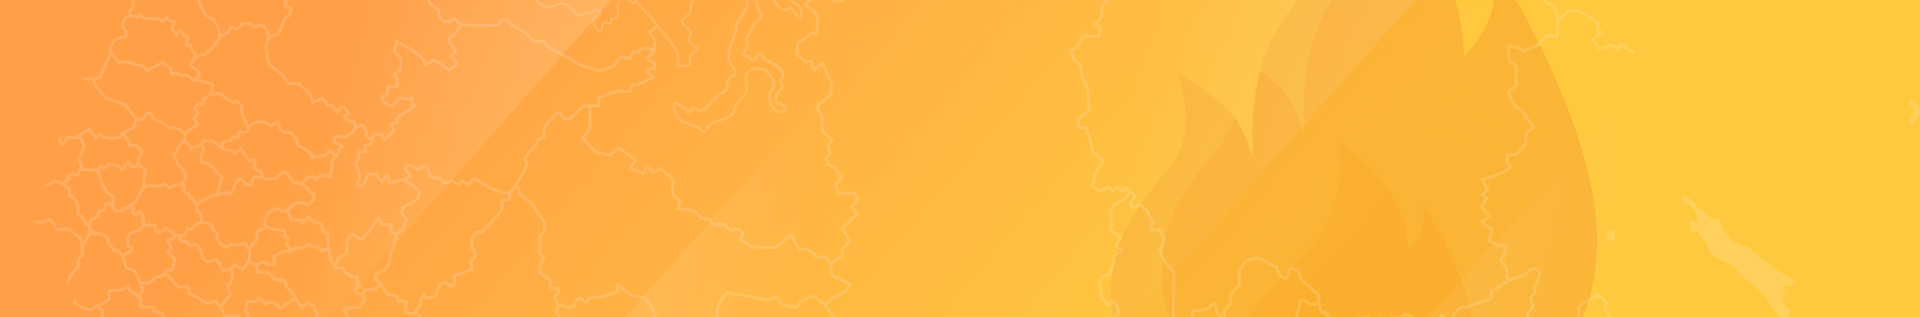
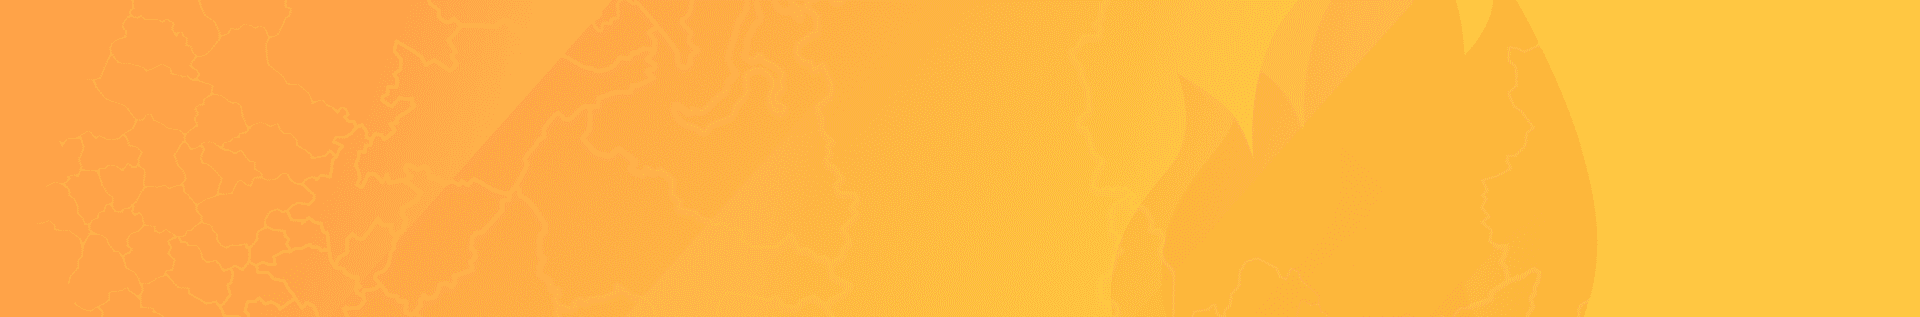
compressed images, responsive offers

diff --git a/src/partials/ways.html b/src/partials/ways.html
@@ -4,9 +4,18 @@
   <div class="ways-cards">
     <div class="ways-card">
       <a class="ways-card__link" href="#!">
-        <img class="money-img" src="/assets/img/ways/image 1.png" width="100" height="55" alt="img" />
-        <!-- <img class="arrow-img" src="/assets/img/ways/arrow.png" width="17" height="10" alt="arrow" /> -->
-        <svg class="arrow-img" width="18" height="10" viewBox="0 0 18 10" fill="none" xmlns="http://www.w3.org/2000/svg">
+        <picture class="">
+          <source type="image/png" srcset="/assets/img/ways/wallets-compressed/ym.png" alt="yoomoney" />
+          <img src="/assets/img/ways/wallets-compressed/ym.png" width="100" height="55" alt="yoomoney" />
+        </picture>
+        <svg
+          class="arrow-img"
+          width="18"
+          height="10"
+          viewBox="0 0 18 10"
+          fill="none"
+          xmlns="http://www.w3.org/2000/svg"
+        >
           <path
             d="M0.81483 5.82806L14.4847 5.82806L11.9237 8.56275C11.1881 9.34825 12.2915 10.5264 13.0271 9.74095L16.9165 5.58136C17.2183 5.25722 17.2183 4.73372 16.9165 4.40958L13.0271 0.251617C12.8792 0.0892485 12.6755 -0.00185569 12.4633 2.86615e-05C11.7627 0.000122879 11.419 0.911213 11.9237 1.42991L14.4908 4.16461L0.774553 4.16461C-0.304313 4.22176 -0.223759 5.88541 0.81483 5.82806Z"
             fill="currentColor"
@@ -16,9 +25,18 @@
     </div>
     <div class="ways-card">
       <a class="ways-card__link" href="#!">
-        <img class="money-img" src="/assets/img/ways/image 2.png" width="100" height="55" alt="img" />
-        <!-- <img class="arrow-img" src="/assets/img/ways/arrow.png" width="17" height="10" alt="arrow" /> -->
-        <svg class="arrow-img" width="18" height="10" viewBox="0 0 18 10" fill="none" xmlns="http://www.w3.org/2000/svg">
+        <picture class="">
+          <source type="image/png" srcset="/assets/img/ways/wallets-compressed/qiwi.png" alt="qiwi" />
+          <img src="/assets/img/ways/wallets-compressed/qiwi.png" width="100" height="55" alt="qiwi" />
+        </picture>
+        <svg
+          class="arrow-img"
+          width="18"
+          height="10"
+          viewBox="0 0 18 10"
+          fill="none"
+          xmlns="http://www.w3.org/2000/svg"
+        >
           <path
             d="M0.81483 5.82806L14.4847 5.82806L11.9237 8.56275C11.1881 9.34825 12.2915 10.5264 13.0271 9.74095L16.9165 5.58136C17.2183 5.25722 17.2183 4.73372 16.9165 4.40958L13.0271 0.251617C12.8792 0.0892485 12.6755 -0.00185569 12.4633 2.86615e-05C11.7627 0.000122879 11.419 0.911213 11.9237 1.42991L14.4908 4.16461L0.774553 4.16461C-0.304313 4.22176 -0.223759 5.88541 0.81483 5.82806Z"
             fill="currentColor"
@@ -28,9 +46,18 @@
     </div>
     <div class="ways-card">
       <a class="ways-card__link" href="#!">
-        <img class="money-img" src="/assets/img/ways/image 3.png" width="100" height="55" alt="img" />
-        <!-- <img class="arrow-img" src="/assets/img/ways/arrow.png" width="17" height="10" alt="arrow" /> -->
-        <svg class="arrow-img" width="18" height="10" viewBox="0 0 18 10" fill="none" xmlns="http://www.w3.org/2000/svg">
+        <picture class="">
+          <source type="image/png" srcset="/assets/img/ways/wallets-compressed/visa.png" alt="visa" />
+          <img src="/assets/img/ways/wallets-compressed/visa.png" width="100" height="55" alt="visa" />
+        </picture>
+        <svg
+          class="arrow-img"
+          width="18"
+          height="10"
+          viewBox="0 0 18 10"
+          fill="none"
+          xmlns="http://www.w3.org/2000/svg"
+        >
           <path
             d="M0.81483 5.82806L14.4847 5.82806L11.9237 8.56275C11.1881 9.34825 12.2915 10.5264 13.0271 9.74095L16.9165 5.58136C17.2183 5.25722 17.2183 4.73372 16.9165 4.40958L13.0271 0.251617C12.8792 0.0892485 12.6755 -0.00185569 12.4633 2.86615e-05C11.7627 0.000122879 11.419 0.911213 11.9237 1.42991L14.4908 4.16461L0.774553 4.16461C-0.304313 4.22176 -0.223759 5.88541 0.81483 5.82806Z"
             fill="currentColor"
@@ -40,9 +67,18 @@
     </div>
     <div class="ways-card">
       <a class="ways-card__link" href="#!">
-        <img class="money-img" src="/assets/img/ways/image 4.png" width="100" height="55" alt="img" />
-        <!-- <img class="arrow-img" src="/assets/img/ways/arrow.png" width="17" height="10" alt="arrow" /> -->
-        <svg class="arrow-img" width="18" height="10" viewBox="0 0 18 10" fill="none" xmlns="http://www.w3.org/2000/svg">
+        <picture class="">
+          <source type="image/png" srcset="/assets/img/ways/wallets-compressed/mc.png" alt="mastercard" />
+          <img src="/assets/img/ways/wallets-compressed/mc.png" width="100" height="55" alt="mastercard" />
+        </picture>
+        <svg
+          class="arrow-img"
+          width="18"
+          height="10"
+          viewBox="0 0 18 10"
+          fill="none"
+          xmlns="http://www.w3.org/2000/svg"
+        >
           <path
             d="M0.81483 5.82806L14.4847 5.82806L11.9237 8.56275C11.1881 9.34825 12.2915 10.5264 13.0271 9.74095L16.9165 5.58136C17.2183 5.25722 17.2183 4.73372 16.9165 4.40958L13.0271 0.251617C12.8792 0.0892485 12.6755 -0.00185569 12.4633 2.86615e-05C11.7627 0.000122879 11.419 0.911213 11.9237 1.42991L14.4908 4.16461L0.774553 4.16461C-0.304313 4.22176 -0.223759 5.88541 0.81483 5.82806Z"
             fill="currentColor"
@@ -52,9 +88,15 @@
     </div>
     <div class="ways-card">
       <a class="ways-card__link" href="#!">
-        <img class="money-img" src="/assets/img/ways/green.svg" width="100" height="55" alt="img" />
-        <!-- <img class="arrow-img" src="/assets/img/ways/arrow.png" width="17" height="10" alt="arrow" /> -->
-        <svg class="arrow-img" width="18" height="10" viewBox="0 0 18 10" fill="none" xmlns="http://www.w3.org/2000/svg">
+        <img class="p-2 w-24 " src="/assets/img/ways/green-comp.svg" width="100" height="55" alt="img" />
+        <svg
+          class="arrow-img"
+          width="18"
+          height="10"
+          viewBox="0 0 18 10"
+          fill="none"
+          xmlns="http://www.w3.org/2000/svg"
+        >
           <path
             d="M0.81483 5.82806L14.4847 5.82806L11.9237 8.56275C11.1881 9.34825 12.2915 10.5264 13.0271 9.74095L16.9165 5.58136C17.2183 5.25722 17.2183 4.73372 16.9165 4.40958L13.0271 0.251617C12.8792 0.0892485 12.6755 -0.00185569 12.4633 2.86615e-05C11.7627 0.000122879 11.419 0.911213 11.9237 1.42991L14.4908 4.16461L0.774553 4.16461C-0.304313 4.22176 -0.223759 5.88541 0.81483 5.82806Z"
             fill="currentColor"

diff --git a/src/partials/advantages.html b/src/partials/advantages.html
@@ -6,11 +6,19 @@
         <div class="avatar">
           <h3 class="card-title-sm">Екатерина Романова, 26 лет</h3>
           <div class="avatar-image">
-            <img src="/assets/img/avatars/avatar1.png" alt="Фото пользователя" />
+            <picture class="">
+              <source type="image/webp" srcset="/assets/img/avatars/avatars-compressed/av1.webp" alt="Пример сайта" />
+              <img src="/assets/img/avatars/avatars-compressed/av1.png" width="96" height="96" alt="аватар" />
+            </picture>
           </div>
         </div>
         <div class="geography">
-          <div><img src="/assets/img/avatars/geo.png" width="16" height="16" alt="значок гео-метки" /></div>
+          <div>
+            <picture class="">
+              <source type="image/webp" srcset="/assets/img/avatars/avatars-compressed/geo.webp" alt="Пример сайта" />
+              <img src="/assets/img/avatars/avatars-compressed/geo.png" width="16" height="16" alt="значок гео-метки" />
+            </picture>
+          </div>
           <span>г. Улан-Батор</span>
         </div>
         <p class="avatar-text">
@@ -34,11 +42,19 @@
         <div class="avatar">
           <h3 class="card-title-sm">Хонгорзул Баттулга, 33 года</h3>
           <div class="avatar-image">
-            <img src="/assets/img/avatars/avatar2.png" alt="Фото пользователя" />
+            <picture class="">
+              <source type="image/webp" srcset="/assets/img/avatars/avatars-compressed/av2.webp" alt="Пример сайта" />
+              <img src="/assets/img/avatars/avatars-compressed/av2.png" width="96" height="96" alt="аватар" />
+            </picture>
           </div>
         </div>
         <div class="geography">
-          <div><img src="/assets/img/avatars/geo.png" width="16" height="16" alt="значок гео-метки" /></div>
+          <div>
+            <picture class="">
+              <source type="image/webp" srcset="/assets/img/avatars/avatars-compressed/geo.webp" alt="Пример сайта" />
+              <img src="/assets/img/avatars/avatars-compressed/geo.png" width="16" height="16" alt="значок гео-метки" />
+            </picture>
+          </div>
           <span>г. Улан-Батор</span>
         </div>
         <p class="avatar-text">
@@ -62,11 +78,19 @@
         <div class="avatar">
           <h3 class="card-title-sm">Бужиг Ганбат, 29 лет</h3>
           <div class="avatar-image">
-            <img src="/assets/img/avatars/avatar3.png" alt="Фото пользователя" />
+            <picture class="">
+              <source type="image/webp" srcset="/assets/img/avatars/avatars-compressed/av3.webp" alt="Пример сайта" />
+              <img src="/assets/img/avatars/avatars-compressed/av3.png" width="96" height="96" alt="аватар" />
+            </picture>
           </div>
         </div>
         <div class="geography">
-          <div><img src="/assets/img/avatars/geo.png" width="16" height="16" alt="значок гео-метки" /></div>
+          <div>
+            <picture class="">
+              <source type="image/webp" srcset="/assets/img/avatars/avatars-compressed/geo.webp" alt="Пример сайта" />
+              <img src="/assets/img/avatars/avatars-compressed/geo.png" width="16" height="16" alt="значок гео-метки" />
+            </picture>
+          </div>
           <span>г. Улан-Батор</span>
         </div>
         <p class="avatar-text">
@@ -86,5 +110,8 @@
       </div>
     </div>
   </div>
-  <div class="actions"><button class="common-button">Оформить заявку</button><button class="btn btn-outline btn-lg btn-accent">Все отзывы</button></div>
+  <div class="actions">
+    <button class="common-button">Оформить заявку</button
+    ><button class="btn btn-outline btn-lg btn-accent">Все отзывы</button>
+  </div>
 </div>

diff --git a/src/partials/clients.html b/src/partials/clients.html
@@ -14,7 +14,12 @@
         <h3 class="card-title-sm">Екатерина Романова</h3>
         <span>Получила отказ 45 сек назад</span>
         <div class="geography">
-          <div><img src="/assets/img/avatars/geo.png" width="16" height="16" alt="значок гео-метки" /></div>
+          <div>
+            <picture class="">
+              <source type="image/webp" srcset="/assets/img/avatars/avatars-compressed/geo.webp" alt="Пример сайта" />
+              <img src="/assets/img/avatars/avatars-compressed/geo.png" width="16" height="16" alt="значок гео-метки" />
+            </picture>
+          </div>
           <span>г. Улан-Батор</span>
         </div>
       </div>
@@ -32,7 +37,12 @@
         <h3 class="card-title-sm">Хонгорзул Баттулга</h3>
         <span>Взял 5 000 ₮ 2 мин назад</span>
         <div class="geography">
-          <div><img src="/assets/img/avatars/geo.png" width="16" height="16" alt="значок гео-метки" /></div>
+          <div>
+            <picture class="">
+              <source type="image/webp" srcset="/assets/img/avatars/avatars-compressed/geo.webp" alt="Пример сайта" />
+              <img src="/assets/img/avatars/avatars-compressed/geo.png" width="16" height="16" alt="значок гео-метки" />
+            </picture>
+          </div>
           <span>г. Улан-Батор</span>
         </div>
       </div>
@@ -50,7 +60,12 @@
         <h3 class="card-title-sm">Бужиг Ганбат</h3>
         <span>Внес на счет 12 000 ₮ 45 сек назад</span>
         <div class="geography">
-          <div><img src="/assets/img/avatars/geo.png" width="16" height="16" alt="значок гео-метки" /></div>
+          <div>
+            <picture class="">
+              <source type="image/webp" srcset="/assets/img/avatars/avatars-compressed/geo.webp" alt="Пример сайта" />
+              <img src="/assets/img/avatars/avatars-compressed/geo.png" width="16" height="16" alt="значок гео-метки" />
+            </picture>
+          </div>
           <span>г. Улан-Батор</span>
         </div>
       </div>

diff --git a/src/css/offer.css b/src/css/offer.css
@@ -23,30 +23,30 @@
   @apply bg-secondary;
 }
 .note-fast {
-  @apply text-primary text-2xl;
+  @apply text-primary text-xl;
 }
 .note-basic {
-  @apply text-accent text-2xl;
+  @apply text-accent text-xl;
 }
 .note-best {
-  @apply text-secondary text-2xl;
+  @apply text-secondary text-xl;
 }
 .card-title {
   @apply flex justify-center;
 }
 .card-content {
-  @apply px-8;
+  @apply px-4 text-sm;
 }
 .date-icon::before {
   content: "📅";
-  @apply absolute left-10 text-accent;
+  @apply absolute left-6 text-accent;
 }
 .date-text {
   @apply font-semibold;
 }
 .money-back-icon::before {
   content: "₮";
-  @apply absolute left-12 text-accent;
+  @apply absolute left-8 text-accent;
 }
 .money-back-text {
   @apply font-semibold;
@@ -55,17 +55,20 @@
   @apply text-center mt-8 mb-4;
 }
 .get-money {
-  @apply relative flex flex-col items-center gap-14 pt-24 px-4;
+  @apply relative flex flex-col md:items-center gap-8 md:gap-14 md:pt-24 px-4;
 }
 .step-icon-1 {
-  @apply absolute top-0;
+  @apply absolute left-3 md:left-auto md:top-0;
 }
 .step-icon-2 {
-  @apply absolute top-4;
+  @apply absolute left-3 md:left-auto md:top-4;
 }
 .step-icon-3 {
-  @apply absolute top-4;
+  @apply absolute left-3 md:left-auto md:top-4;
 }
 .step-icon-4 {
-  @apply absolute top-4;
+  @apply absolute left-3 md:left-auto md:top-4;
+}
+.steps-vertical .step {
+  @apply col-span-5 col-start-3 h-32 md:col-span-1;
 }

diff --git a/src/partials/header.html b/src/partials/header.html
@@ -1,7 +1,7 @@
 <header class="header">
   <picture class="">
-    <source type="image/webp" srcset="/assets/img/hero/hero-girl.png" alt="Пример сайта" />
-    <img class="header-img" src="/assets/img/hero/hero-girl.png" alt="Девушка" width="550" height="700" />
+    <!-- <source type="image/webp" srcset="/assets/img/hero/hero-girl.png" alt="Пример сайта" /> -->
+    <img class="header-img" src="/assets/img/hero/hero-girlh.png" alt="Девушка" width="550" height="700" />
   </picture>
   <!-- <img src="assets/img/hero/hero-girl.png" /> -->
   <div class="navbar-top navbar-sizing">
@@ -12,7 +12,7 @@
       {{>menu}}
     </div>
     <div class="navbar-end">
-      <button class="common-button mr-2">Войти</button>
+      <button class="common-button">Войти</button>
       <div class="dropdown dropdown-end">
         <label tabindex="0" class="burger">
           <svg

diff --git a/src/sass/header.sass b/src/sass/header.sass
@@ -1,5 +1,5 @@
 .header
-  background-image: url(/assets/img/hero/Hero-clear.jpg)
+  background-image: url(/assets/img/hero/Hero-clear.webp)
   background-position: center center
   background-size: cover
   background-repeat: no-repeat
@@ -52,7 +52,9 @@
   @apply w-full lg:w-3/4 text-sm text-center sm:text-left justify-self-end
 
 .right-text
-  @apply relative justify-self-center md:justify-self-end items-center md:w-1/2 lg:w-5/6 bg-base-100 bg-opacity-90 text-base-content rounded-xl text-center md:mr-12 lg:mr-0
+  @apply relative justify-self-center md:justify-self-end items-center md:w-1/2 lg:w-5/6 bg-base-100 bg-opacity-90 text-base-content rounded-xl text-center md:mr-12 lg:mr-0 gap-4 py-8
+.credit-sum, .credit-term
+  @apply flex flex-col text-left justify-between min-h-fit gap-10 text-xl
 .form-list
   @apply grid grid-cols-2 gap-2
   &-item

diff --git a/src/partials/get.html b/src/partials/get.html
@@ -4,5 +4,9 @@
     <p class="text-mid">Без проверки кредитной истории. От&nbsp;1 000 ₮ за 15 минут.</p>
     <button class="common-button">Оформить заявку</button>
   </div>
-  <div class="img-block"><img src="/assets/img/get/bot-img.png" alt="Девушка" /></div>
+  <div class="img-block">
+    <picture class="">
+      <source type="image/png" srcset="/assets/img/get/girl-bot-compressed/girl-bot.png" alt="Пример сайта" />
+    <img src="/assets/img/get/girl-bot-compressed/girl-bot.png" width="630" height="420" alt="Девушка" />
+  </div>
 </div>

diff --git a/src/style.css b/src/style.css
@@ -62,7 +62,7 @@ h1 {
 .common-button {
   /* background: rgb(2, 0, 36); */
   background: linear-gradient(90deg, rgba(255, 200, 62, 1) 0%, rgba(255, 200, 62, 1) 0%, rgba(255, 115, 71, 1) 100%);
-  @apply btn btn-accent btn-lg sm:btn-lg;
+  @apply btn btn-accent;
 }
 .cards {
   @apply flex flex-col gap-4 lg:flex-row justify-between md:gap-4 lg:gap-14 max-w-screen-xl;

diff --git a/src/partials/offer.html b/src/partials/offer.html
@@ -45,7 +45,7 @@
   </div>
   <h2 class="block-title">Как получить деньги</h2>
   <div class="get-money">
-    <ul class="steps max-w-screen-xl">
+    <ul class="steps steps-vertical md:steps-horizontal max-w-screen-xl">
       <!-- <li class="step"></li> -->
       <li class="step step-primary">
         <span class="step-icon-1"

diff --git a/src/sass/range-mixin.sass b/src/sass/range-mixin.sass
@@ -75,7 +75,7 @@ $dist: $track-w - $thumb-d
       display: block
       position: absolute
       left: .75*$thumb-d
-      top: -2rem
+      top: -2.5rem
       padding: .25em .5em
       border-radius: 3px
       transform: translate(calc((var(--val) - var(--min))/(var(--max) - var(--min))*#{$dist} - 50%))

diff --git a/src/css/footer.css b/src/css/footer.css
@@ -1,5 +1,5 @@
 .foot {
-  background-image: url(/assets/img/footer/Footer-bg.png);
+  background-image: url(/assets/img/footer/footer-bg-compressed/Footer-bgc.webp);
   @apply p-10 bg-accent bg-no-repeat bg-cover text-base-100 flex flex-col gap-8;
 }
 

diff --git a/src/css/get.css b/src/css/get.css
@@ -10,7 +10,7 @@
 }
 
 .img-block {
-  background-image: url(/assets/img/get/sun.png);
+  background-image: url(/assets/img/get/girl-bot-compressed/sun.webp);
   background-repeat: no-repeat;
   background-size: contain;
   background-position: bottom;
